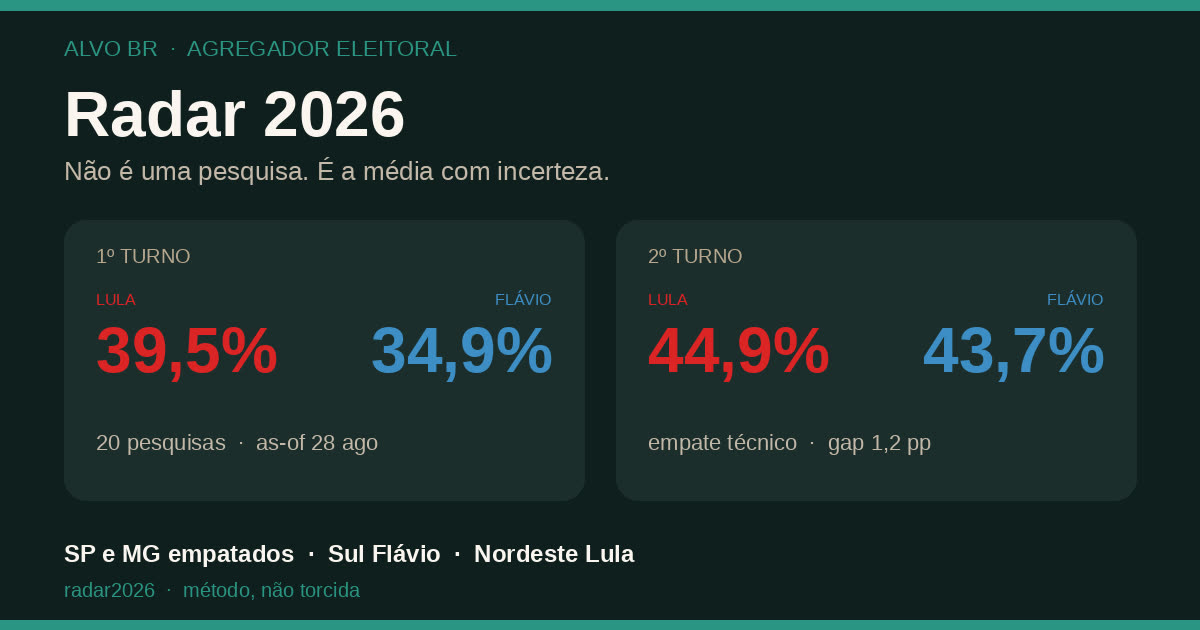
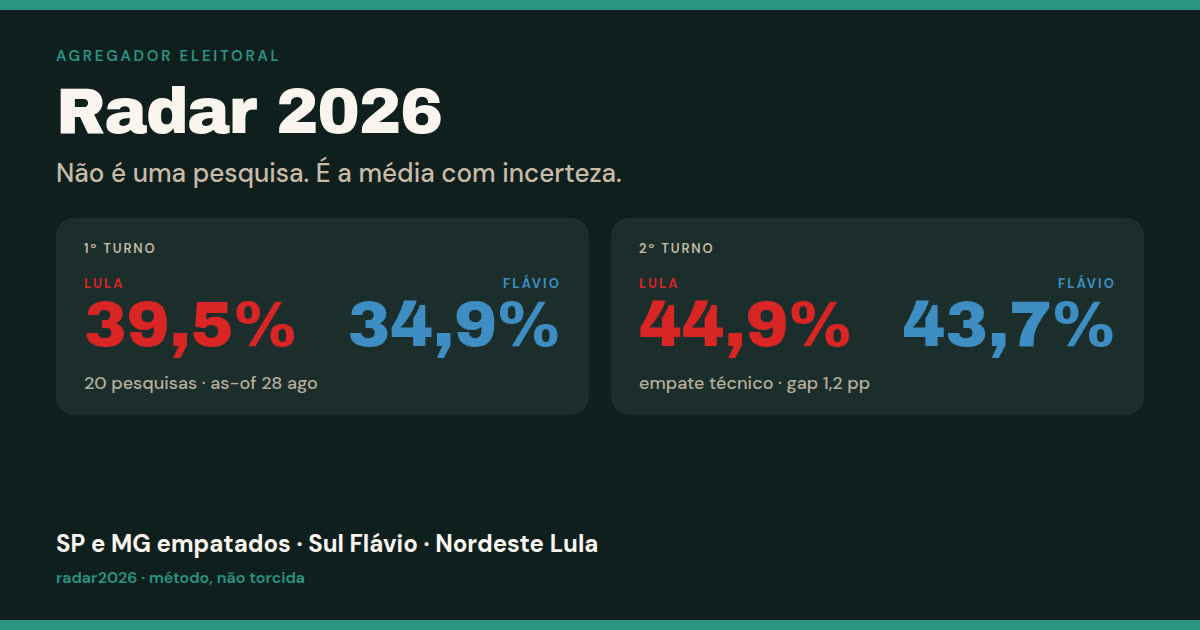
brand: drop Alvo BR from the aggregator share card
Kicker is only Agregador eleitoral. Ingest git identity follows brasilradar.com.br.

diff --git a/scripts/og-card.html b/scripts/og-card.html
@@ -1,0 +1,156 @@
+<!DOCTYPE html>
+<html lang="pt-BR">
+<head>
+  <meta charset="utf-8" />
+  <link rel="preconnect" href="https://fonts.googleapis.com" />
+  <link rel="preconnect" href="https://fonts.gstatic.com" crossorigin />
+  <link href="https://fonts.googleapis.com/css2?family=Archivo+Black&family=DM+Sans:wght@400;500;600;700&display=swap" rel="stylesheet" />
+  <style>
+    * { box-sizing: border-box; margin: 0; padding: 0; }
+    html, body { width: 1200px; height: 630px; overflow: hidden; }
+    body {
+      font-family: "DM Sans", ui-sans-serif, system-ui, sans-serif;
+      background: #0f1f1e;
+      color: #faf6ef;
+    }
+    .frame {
+      width: 1200px;
+      height: 630px;
+      background: #0f1f1e;
+      border-top: 10px solid #2a9583;
+      border-bottom: 10px solid #2a9583;
+      padding: 36px 56px 32px;
+      display: flex;
+      flex-direction: column;
+    }
+    .kicker {
+      font-size: 15px;
+      font-weight: 600;
+      letter-spacing: 0.18em;
+      text-transform: uppercase;
+      color: #2a9583;
+      margin-bottom: 14px;
+    }
+    h1 {
+      font-family: "Archivo Black", "DM Sans", sans-serif;
+      font-size: 64px;
+      line-height: 1;
+      font-weight: 400;
+      color: #faf6ef;
+      letter-spacing: -0.02em;
+    }
+    .sub {
+      margin-top: 12px;
+      font-size: 26px;
+      font-weight: 500;
+      color: #c8bba8;
+    }
+    .cards {
+      display: grid;
+      grid-template-columns: 1fr 1fr;
+      gap: 22px;
+      margin-top: 28px;
+    }
+    .card {
+      background: #1b2e2c;
+      border-radius: 18px;
+      padding: 22px 28px 20px;
+    }
+    .card-label {
+      font-size: 13px;
+      font-weight: 600;
+      letter-spacing: 0.14em;
+      text-transform: uppercase;
+      color: #c8bba8;
+      margin-bottom: 18px;
+    }
+    .row {
+      display: flex;
+      justify-content: space-between;
+      align-items: flex-end;
+      gap: 16px;
+    }
+    .col { min-width: 0; }
+    .col.right { text-align: right; }
+    .name {
+      font-size: 13px;
+      font-weight: 700;
+      letter-spacing: 0.16em;
+      text-transform: uppercase;
+      margin-bottom: 4px;
+    }
+    .name.lula { color: #d92524; }
+    .name.flavio { color: #3e8ec2; }
+    .pct {
+      font-family: "Archivo Black", "DM Sans", sans-serif;
+      font-size: 64px;
+      line-height: 0.92;
+      font-weight: 400;
+    }
+    .pct.lula { color: #d92524; }
+    .pct.flavio { color: #3e8ec2; }
+    .meta {
+      margin-top: 16px;
+      font-size: 18px;
+      font-weight: 500;
+      color: #b7ae9e;
+    }
+    .foot {
+      margin-top: auto;
+      padding-top: 22px;
+    }
+    .foot-lead {
+      font-size: 24px;
+      font-weight: 700;
+      color: #faf6ef;
+    }
+    .foot-sub {
+      margin-top: 8px;
+      font-size: 16px;
+      font-weight: 600;
+      color: #2a9583;
+    }
+  </style>
+</head>
+<body>
+  <div class="frame">
+    <p class="kicker">Agregador eleitoral</p>
+    <h1>Radar 2026</h1>
+    <p class="sub">Não é uma pesquisa. É a média com incerteza.</p>
+    <div class="cards">
+      <div class="card">
+        <p class="card-label">1º turno</p>
+        <div class="row">
+          <div class="col">
+            <p class="name lula">Lula</p>
+            <p class="pct lula">39,5%</p>
+          </div>
+          <div class="col right">
+            <p class="name flavio">Flávio</p>
+            <p class="pct flavio">34,9%</p>
+          </div>
+        </div>
+        <p class="meta">20 pesquisas · as-of 28 ago</p>
+      </div>
+      <div class="card">
+        <p class="card-label">2º turno</p>
+        <div class="row">
+          <div class="col">
+            <p class="name lula">Lula</p>
+            <p class="pct lula">44,9%</p>
+          </div>
+          <div class="col right">
+            <p class="name flavio">Flávio</p>
+            <p class="pct flavio">43,7%</p>
+          </div>
+        </div>
+        <p class="meta">empate técnico · gap 1,2 pp</p>
+      </div>
+    </div>
+    <div class="foot">
+      <p class="foot-lead">SP e MG empatados · Sul Flávio · Nordeste Lula</p>
+      <p class="foot-sub">radar2026 · método, não torcida</p>
+    </div>
+  </div>
+</body>
+</html>

diff --git a/src/lib/chart-theme.ts b/src/lib/chart-theme.ts
@@ -1,4 +1,4 @@
-/** Chart colors (surface-deep). Independent of Alvo brand lockups. */
+/** Chart colors (surface-deep). */
 export const CHART = {
   grid: "#3d5c57",
   axis: "#e4d9c8",
